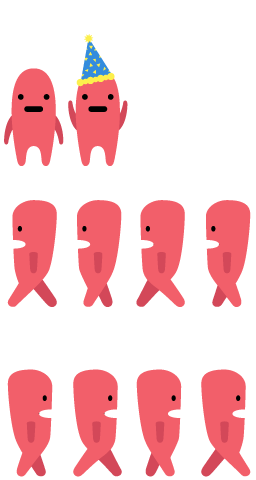
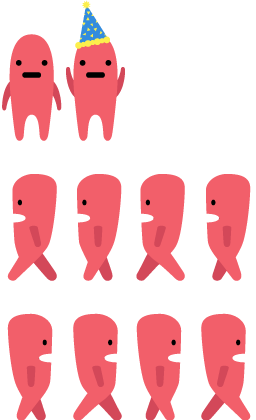
fix #54

diff --git a/src/js/graphic.js b/src/js/graphic.js
@@ -31,8 +31,8 @@ let userGuess = -1;
 let currentStep = 'intro';
 let jiggleTimeout = null;
 let mobile = false;
-let playerW = 0;
-let playerH = 0;
+let playerW = 32;
+let playerH = 70;
 let russellIndex = 319;
 
 function updateGuessStep() {
@@ -62,10 +62,10 @@ const steps = {
 		$s
 			.selectAll('.guess--yes')
 			.classed('is-visible', userIndex === russellIndex);
-		
+
 		if (userIndex === russellIndex) {
-			russellIndex = 227
-			render.updateUser({id: 'Russell', day: russellIndex})
+			russellIndex = 227;
+			render.updateUser({ id: 'Russell', day: russellIndex });
 		}
 	},
 	guessAbove: () => {
@@ -400,7 +400,7 @@ function updateDimensions() {
 	$.content.st('height', height);
 	mobile = width < BP;
 	playerW = mobile ? 16 : 32;
-	playerH = mobile ? 40 : 80;
+	playerH = mobile ? 35 : 70;
 }
 
 function setCanvasDimensions() {
@@ -431,7 +431,7 @@ function changeUserInfo() {
 		const m = monthData[userMonth - 1].name;
 		text = `${m} ${userDay}`;
 		userIndex = dayData.findIndex(d => d.month === m && d.day === userDay);
-		render.updateUser({id: 'You', day: userIndex});
+		render.updateUser({ id: 'You', day: userIndex });
 	} else text = '...';
 
 	const $btn = $.graphicUi.select('.ui__step--birthday button');
@@ -638,7 +638,7 @@ function setupUser() {
 			.selectAll('.day option')
 			.prop('selected', (d, i) => i === userDay);
 		$.dropdown.selectAll('select').prop('disabled', true);
-		render.updateUser({id: 'You', day: userIndex});
+		render.updateUser({ id: 'You', day: userIndex });
 		userGuess = db.getGuess();
 		if (userGuess) {
 			d3

diff --git a/src/js/render.js b/src/js/render.js
@@ -29,7 +29,7 @@ let width = 0;
 const $label = null;
 
 let playerW = 32;
-let playerH = 80;
+let playerH = 70;
 
 const special = [];
 
@@ -118,7 +118,7 @@ function updatePlayer(p) {
 	} else if (p.balloon) createBalloon(p);
 
 	renderPlayer({
-		srcX: p.frame,
+		srcX: p.rainbow ? 1 : p.frame,
 		srcY: p.state,
 		posX: p.x,
 		posY: 0,
